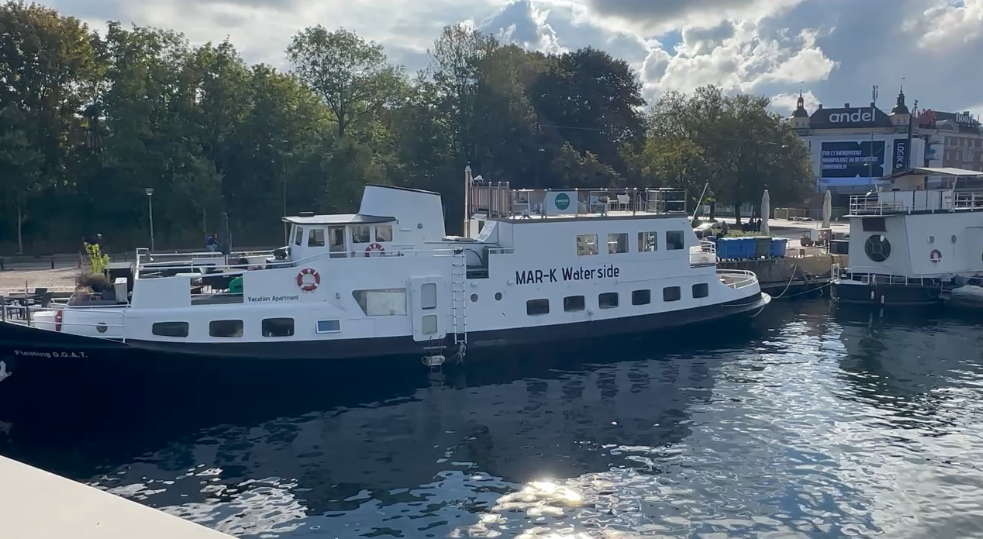
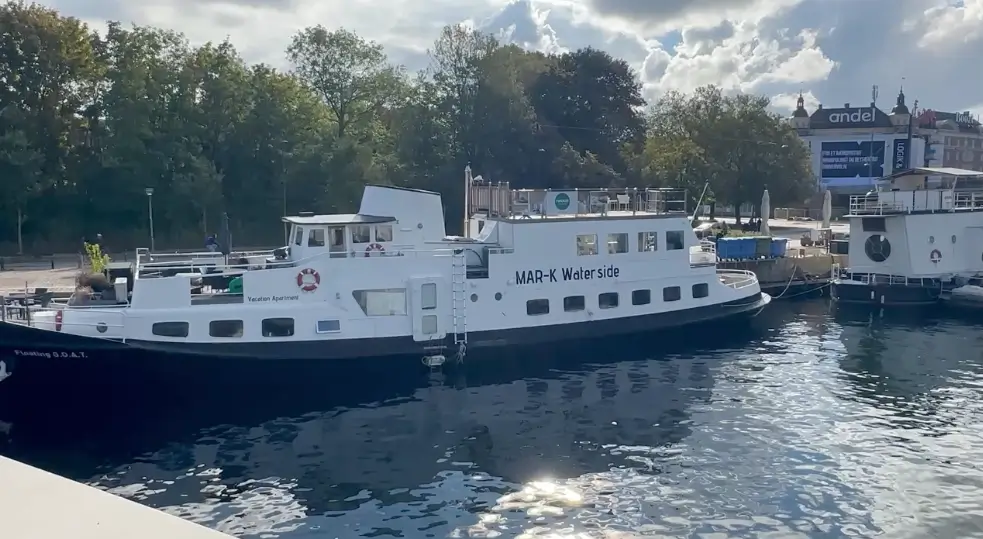
worked on images sizes

diff --git a/app/components/ui/CardScroller.vue b/app/components/ui/CardScroller.vue
@@ -1,5 +1,5 @@
 <script setup lang="ts">
-import PrimaryButton from './PrimaryButton.vue'
+import PrimaryButton from "./PrimaryButton.vue"
 
 interface CardItem {
 	img: string
@@ -16,16 +16,23 @@ defineProps<Props>()
 </script>
 
 <template>
-	<div class="text-palladian flex h-full w-full sm:max-w-xl sm:mx-auto snap-x snap-mandatory [scrollbar-width:none] gap-4 overflow-x-auto scroll-smooth px-8 pb-2 my-16 [-ms-overflow-style:none] [&::-webkit-scrollbar]:hidden">
-		<div v-for="(item, index) in items" :key="index" class="relative w-[85%] flex-shrink-0 snap-start sm:w-1/2">
-			<NuxtImg :src="item.img" loading="lazy" class="h-auto w-full" :alt="item.alt ?? item.title" />
-			<div class="absolute inset-0 z-10 flex flex-col justify-end gap-1">
-				<div class="absolute right-0 bottom-0 left-0 min-h-40 pt-4 px-4 flex gap-2 flex-col">
-					<p class="font-display text-xl/6 sm:text-base/5 font-semibold">{{ item.title }}</p>
-					<p class="font-light sm:text-xs/4">{{ item.description }}</p>
+	<div class="text-palladian my-16 flex w-full snap-x snap-mandatory [scrollbar-width:none] gap-4 overflow-x-auto scroll-smooth px-8 pb-2 [-ms-overflow-style:none] lg:grid lg:snap-none lg:grid-cols-4 lg:overflow-visible [&::-webkit-scrollbar]:hidden">
+		<div v-for="(item, index) in items" :key="index" class="relative w-[85%] flex-shrink-0 snap-start sm:w-[calc(50%-0.5rem)] lg:w-auto items-center flex-col">
+			<NuxtImg :src="item.img" loading="lazy" class="block aspect-[4/3] w-full object-cover relative" :alt="item.alt ?? item.title" sizes="85vw sm:50vw lg:25vw" />
+			<div class="absolute inset-0 z-10 flex flex-col justify-end">
+				<div class="absolute right-0 bottom-0 left-0 flex min-h-40 flex-col gap-4 p-4 sm:p-6">
+					<p class="font-display text-xl/6 font-semibold sm:text-lg/5">
+						{{ item.title }}
+					</p>
+
+					<p class="font-light sm:text-sm/5">
+						{{ item.description }}
+					</p>
+
 					<PrimaryButton :text="'Book nu'" />
 				</div>
 			</div>
+
 			<div class="absolute inset-0 bg-gradient-to-t from-black/80 to-transparent" />
 		</div>
 	</div>

diff --git a/app/components/Menu.vue b/app/components/Menu.vue
@@ -18,7 +18,7 @@ const menuItems = computed(() => data.value || [])
 			</div>
 			<div class="w-full">
 				<!-- Desktop -->
-				<div class="hidden w-full flex justify-center items-center space-x-8 md:flex md:justify-center">
+				<div class="flex hidden w-full items-center justify-center space-x-8 md:flex md:justify-center">
 					<span v-if="status === 'pending'" class="animate-pulse text-sm text-gray-400"> Loading... </span>
 
 					<span v-else-if="error" class="text-sm text-red-400"> Failed loading menu </span>
@@ -29,15 +29,15 @@ const menuItems = computed(() => data.value || [])
 				</div>
 
 				<!-- Mobile button -->
-				<div class="flex w-full flex-row justify-end relative -top-[5rem] md:hidden">
+				<div class="relative -top-[5rem] flex w-full flex-row justify-end md:hidden">
 					<button @click="isMobileMenuOpen = !isMobileMenuOpen" type="button" class="text-palladian flex w-full justify-end rounded-md p-2 hover:bg-gray-100 hover:text-gray-900 focus:outline-none" aria-controls="mobile-menu" :aria-expanded="isMobileMenuOpen">
 						<MenuIcon :is-open="isMobileMenuOpen" />
 						<span class="sr-only">Open main menu</span>
 					</button>
 				</div>
 			</div>
-			
-			<div class="relative h-24 top-[6rem]">
+
+			<div class="relative top-[6rem] h-24">
 				<Transition enter-active-class="transition-opacity duration-300 ease-out" enter-from-class="opacity-0" enter-to-class="opacity-100" leave-active-class="transition-opacity duration-200 ease-in" leave-from-class="opacity-100" leave-to-class="opacity-0">
 					<div v-if="isMobileMenuOpen" class="px-4 pt-2 pb-4 shadow-inner">
 						<div class="scrollbar-hide flex snap-x snap-mandatory gap-2 overflow-x-auto scroll-smooth">

diff --git a/app/components/FerryVideo.vue b/app/components/FerryVideo.vue
@@ -16,7 +16,7 @@ const props = defineProps<{
 }>()*/
 </script>
 <template>
-	<div class="relative h-[50vh] -mt-2 z-10 text-palladian">
+	<div class="text-palladian relative z-10 -mt-2 h-[50vh]">
 		<video :poster="poster" autoplay muted playsinline class="absolute inset-0 z-0 h-full w-full object-cover">
 			<source :src="heroMobile" type="video/mp4" media="(max-width: 767px)" />
 
@@ -27,12 +27,12 @@ const props = defineProps<{
 
 		<div class="absolute inset-0 z-10 bg-black/40"></div>
 
-		<div class="relative z-20 mx-auto flex h-full max-w-6xl flex-col justify-center gap-2 px-8">
+		<div class="relative z-20 mx-auto flex h-full max-w-6xl flex-col sm:justify-center sm:text-center gap-2 px-8">
 			<slot>
 				<span class="text-sm uppercase">Find os på airbnb</span>
 				<h1 class="text-3xl font-bold tracking-tight md:text-4xl">Floating G.O.A.T.</h1>
-				<p class="my-4 line-clamp-4 max-w-2xl text-xl/5 mx-auto">Mødelokaler, eventspace, private selskaber og ferielejligheder. <br /><br />På en færge midt i København.</p>
-				<div class="hidden flex flex-row gap-4 justify-center">
+				<p class="mx-auto my-4 line-clamp-4 max-w-2xl text-xl/5">Mødelokaler, eventspace, private selskaber og ferielejligheder. <br /><br />På en færge midt i København.</p>
+				<div class="flex hidden flex-row justify-center gap-4">
 					<PrimaryButton :text="'Primary Button'" class="bg-brand text-palladian text-lg" />
 					<SecondaryButton :text="'Secondary Button'" class="text-lg" />
 				</div>

diff --git a/app/components/ImageScrollWindow.vue b/app/components/ImageScrollWindow.vue
@@ -13,16 +13,16 @@ import PrimaryButton from "~/components/ui/PrimaryButton.vue"
 
 		<!-- Foreground -->
 		<div class="relative z-10 -mt-[50vh]">
-			<section class="flex h-[50vh] items-center justify-center px-6">
+			<section class="text-palladian flex h-[50vh] items-center justify-center px-6">
 				<div class="max-w-2xl text-center">
 					<h1 class="text-5xl">Vandets ro og byens puls</h1>
 				</div>
 			</section>
 
 			<section class="bg-palladian flex min-h-screen items-center justify-center pb-8">
-				<div class="flex max-w-3xl flex-col sm:grid sm:grid-cols-3">
+				<div class="flex max-w-5xl flex-col sm:grid sm:grid-cols-3">
 					<NuxtImg :src="posterImg" loading="lazy" class="mb-6 h-full w-full object-cover" alt="Events" sizes="100vw" />
-					<div class="px-4 sm:col-span-2 sm:px-8 py-16">
+					<div class="px-4 py-16 sm:col-span-2 sm:px-8">
 						<span class="text-center text-sm uppercase">private selskaber</span>
 						<h2 class="mt-4 text-4xl font-semibold">Hold jeres selskab på Floating G.O.A.T.</h2>
 						<p class="mt-6 text-lg">I kommer i de bedste hænder hos os. Uanset om I ønsker at holde bryllup med de nærmeste, arrangere et foredrag, fejre en fødselsdag eller noget helt fjerde. Vi er klar til at hjælpe jer med at skabe de bedste rammer, så I kan fokusere på jeres gæster.</p>

diff --git a/app/components/IndexVideo.vue b/app/components/IndexVideo.vue
@@ -43,8 +43,8 @@ const truncatedSubtitle = computed(() => {
 		<div class="relative z-20 mx-auto flex h-full max-w-6xl flex-col justify-center gap-2 px-8 text-center">
 			<slot>
 				<h1 class="text-3xl font-bold tracking-tight md:text-4xl">Floating G.O.A.T.</h1>
-				<p class="my-4 line-clamp-4 max-w-2xl text-xl/5 mx-auto">Mødelokaler, eventspace, private selskaber og ferielejligheder. <br /><br />På en færge midt i København.</p>
-				<div class="flex flex-row gap-4 justify-center">
+				<p class="mx-auto my-4 line-clamp-4 max-w-2xl text-xl/5">Mødelokaler, eventspace, private selskaber og ferielejligheder. <br /><br />På en færge midt i København.</p>
+				<div class="flex flex-row justify-center gap-4">
 					<PrimaryButton :text="'Primary Button'" class="bg-brand text-palladian text-lg" />
 					<SecondaryButton :text="'Secondary Button'" class="text-lg" />
 				</div>

diff --git a/app/components/MainFooter.vue b/app/components/MainFooter.vue
@@ -1,7 +1,8 @@
 <script setup lang="ts"></script>
 <template>
-	<footer class="bg-palladian text-brand grid flex-shrink-0 grid-cols-1 gap-4 p-8 py-24 sm:grid-cols-2 md:grid-cols-4">
-		<div class="flex flex-col gap-1">
+	<footer class="bg-palladian text-brand">
+		<div class="grid flex-shrink-0 grid-cols-1 gap-4 p-8 py-24 sm:grid-cols-2 md:grid-cols-4 sm:max-w-6xl sm:mx-auto">
+			<div class="flex flex-col gap-1">
 			<p class="font-display font-semibold">MAR-K WATERSIDE</p>
 			<p class="text-sm">Langebrogade 1C<br />1411 København K<br />CVR: 44307987</p>
 		</div>
@@ -19,6 +20,8 @@
 		<div class="flex flex-col">
 			<p class="font-display font-semibold">Find os</p>
 		</div>
-		&copy; {{ new Date().getFullYear() }}
+		</div>
+		<div class="text-center py-8">&copy; {{ new Date().getFullYear() }}</div>
+		
 	</footer>
 </template>

diff --git a/app/components/ui/PrimaryButton.vue b/app/components/ui/PrimaryButton.vue
@@ -13,5 +13,5 @@ const handleButtonClick = () => {
 </script>
 
 <template>
-	<button @click="handleButtonClick" class="w-max rounded bg-action px-3 py-2 font-medium text-white transition-colors hover:bg-[#21658D]">{{ text }}</button>
+	<button @click="handleButtonClick" class="bg-action w-max rounded px-3 py-2 font-medium text-white transition-colors hover:bg-[#21658D]">{{ text }}</button>
 </template>
